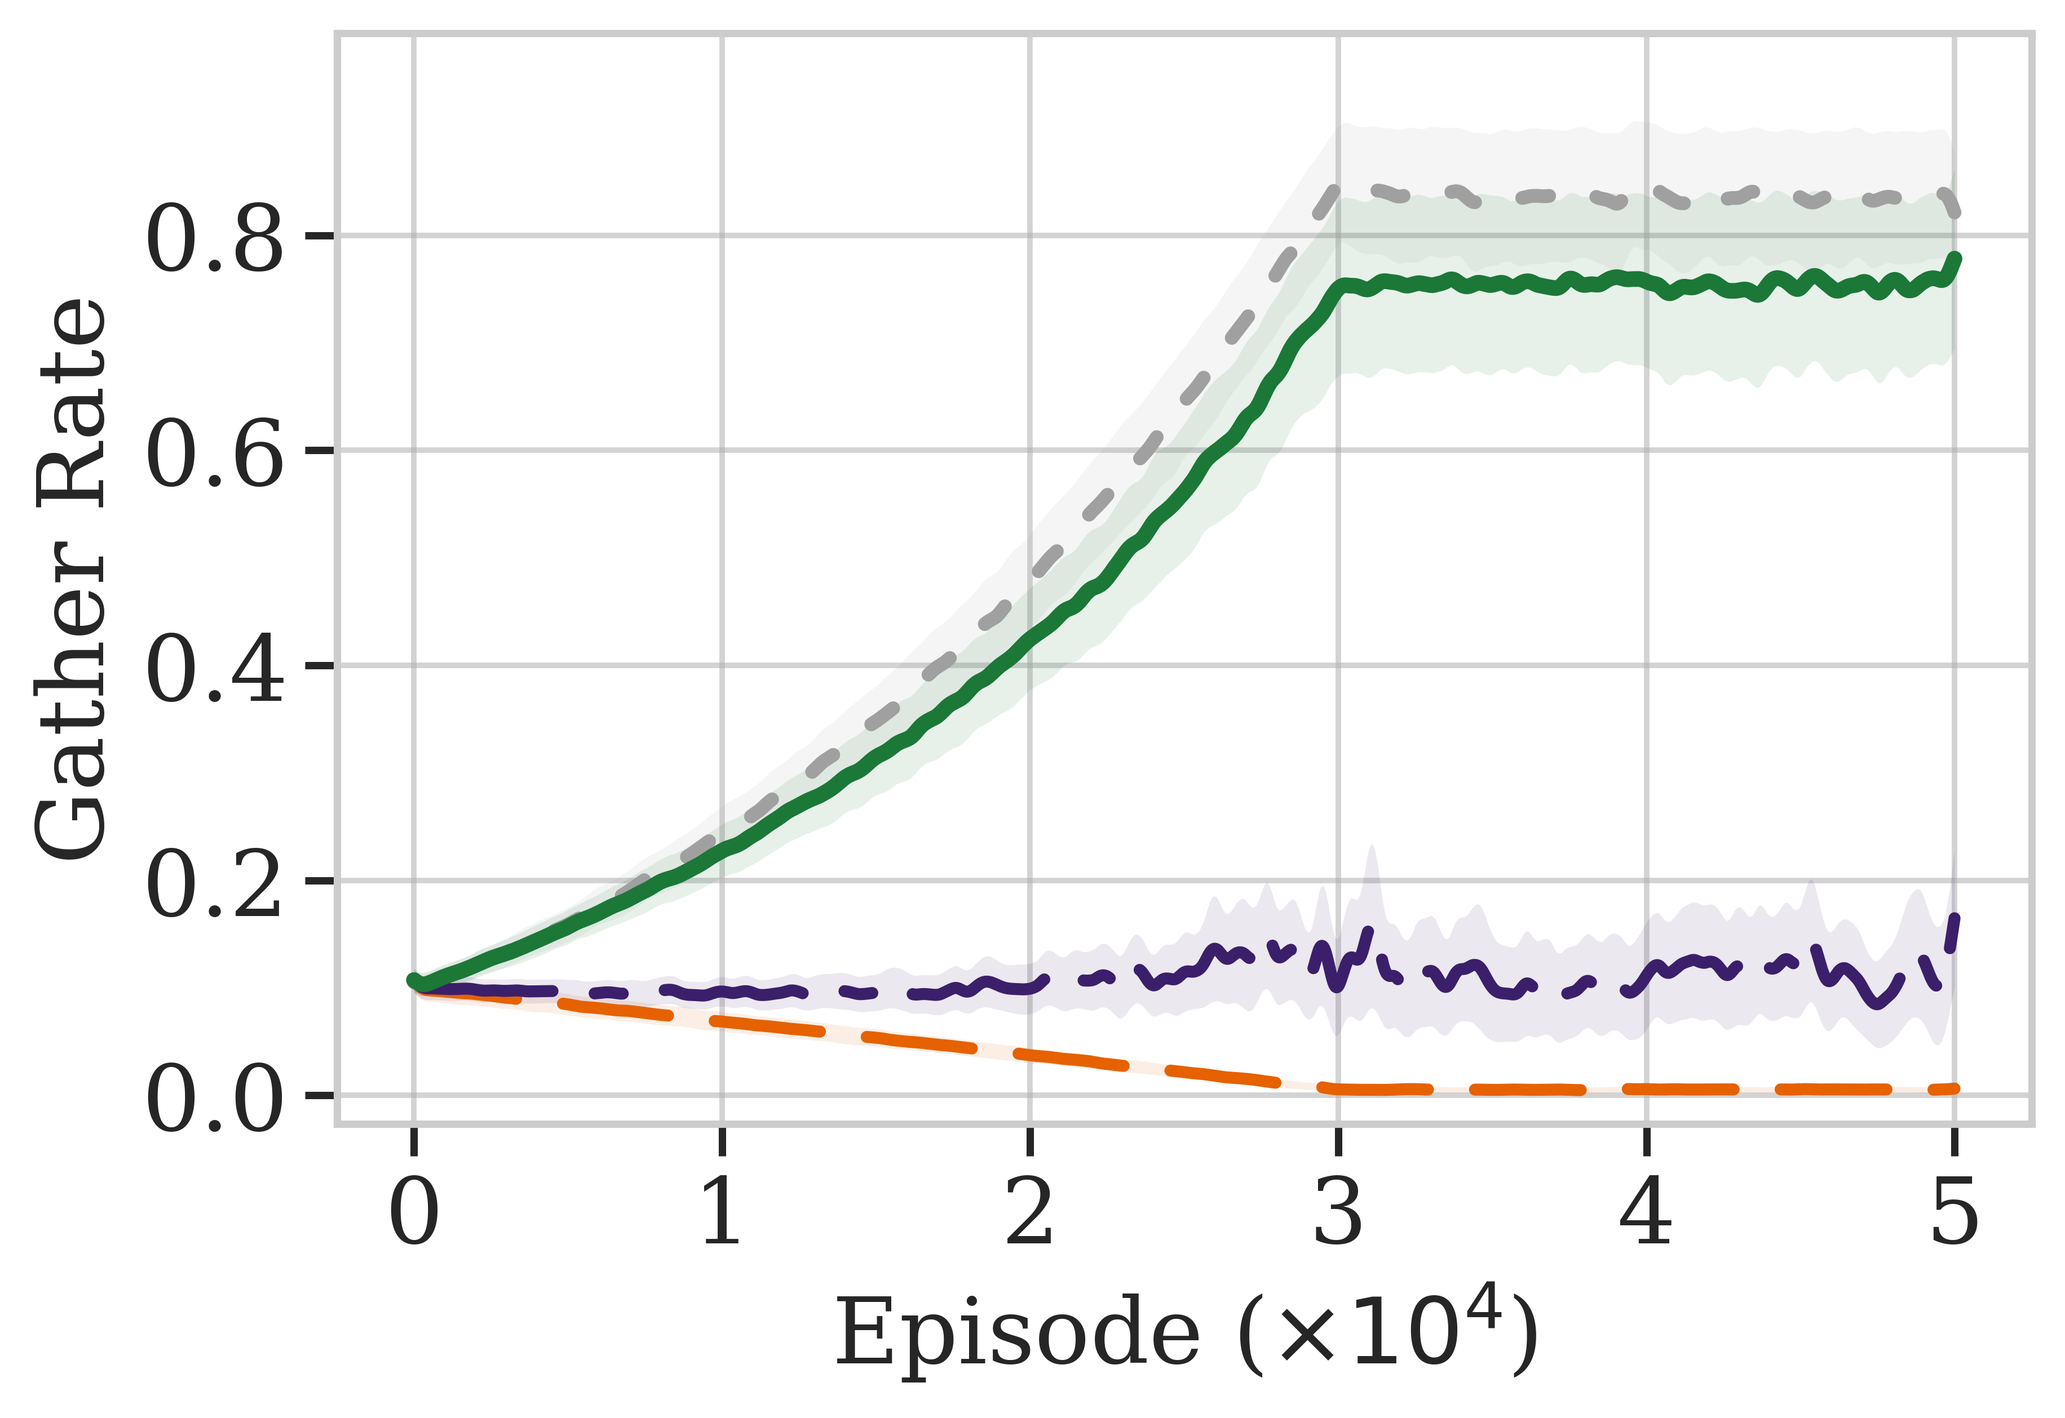
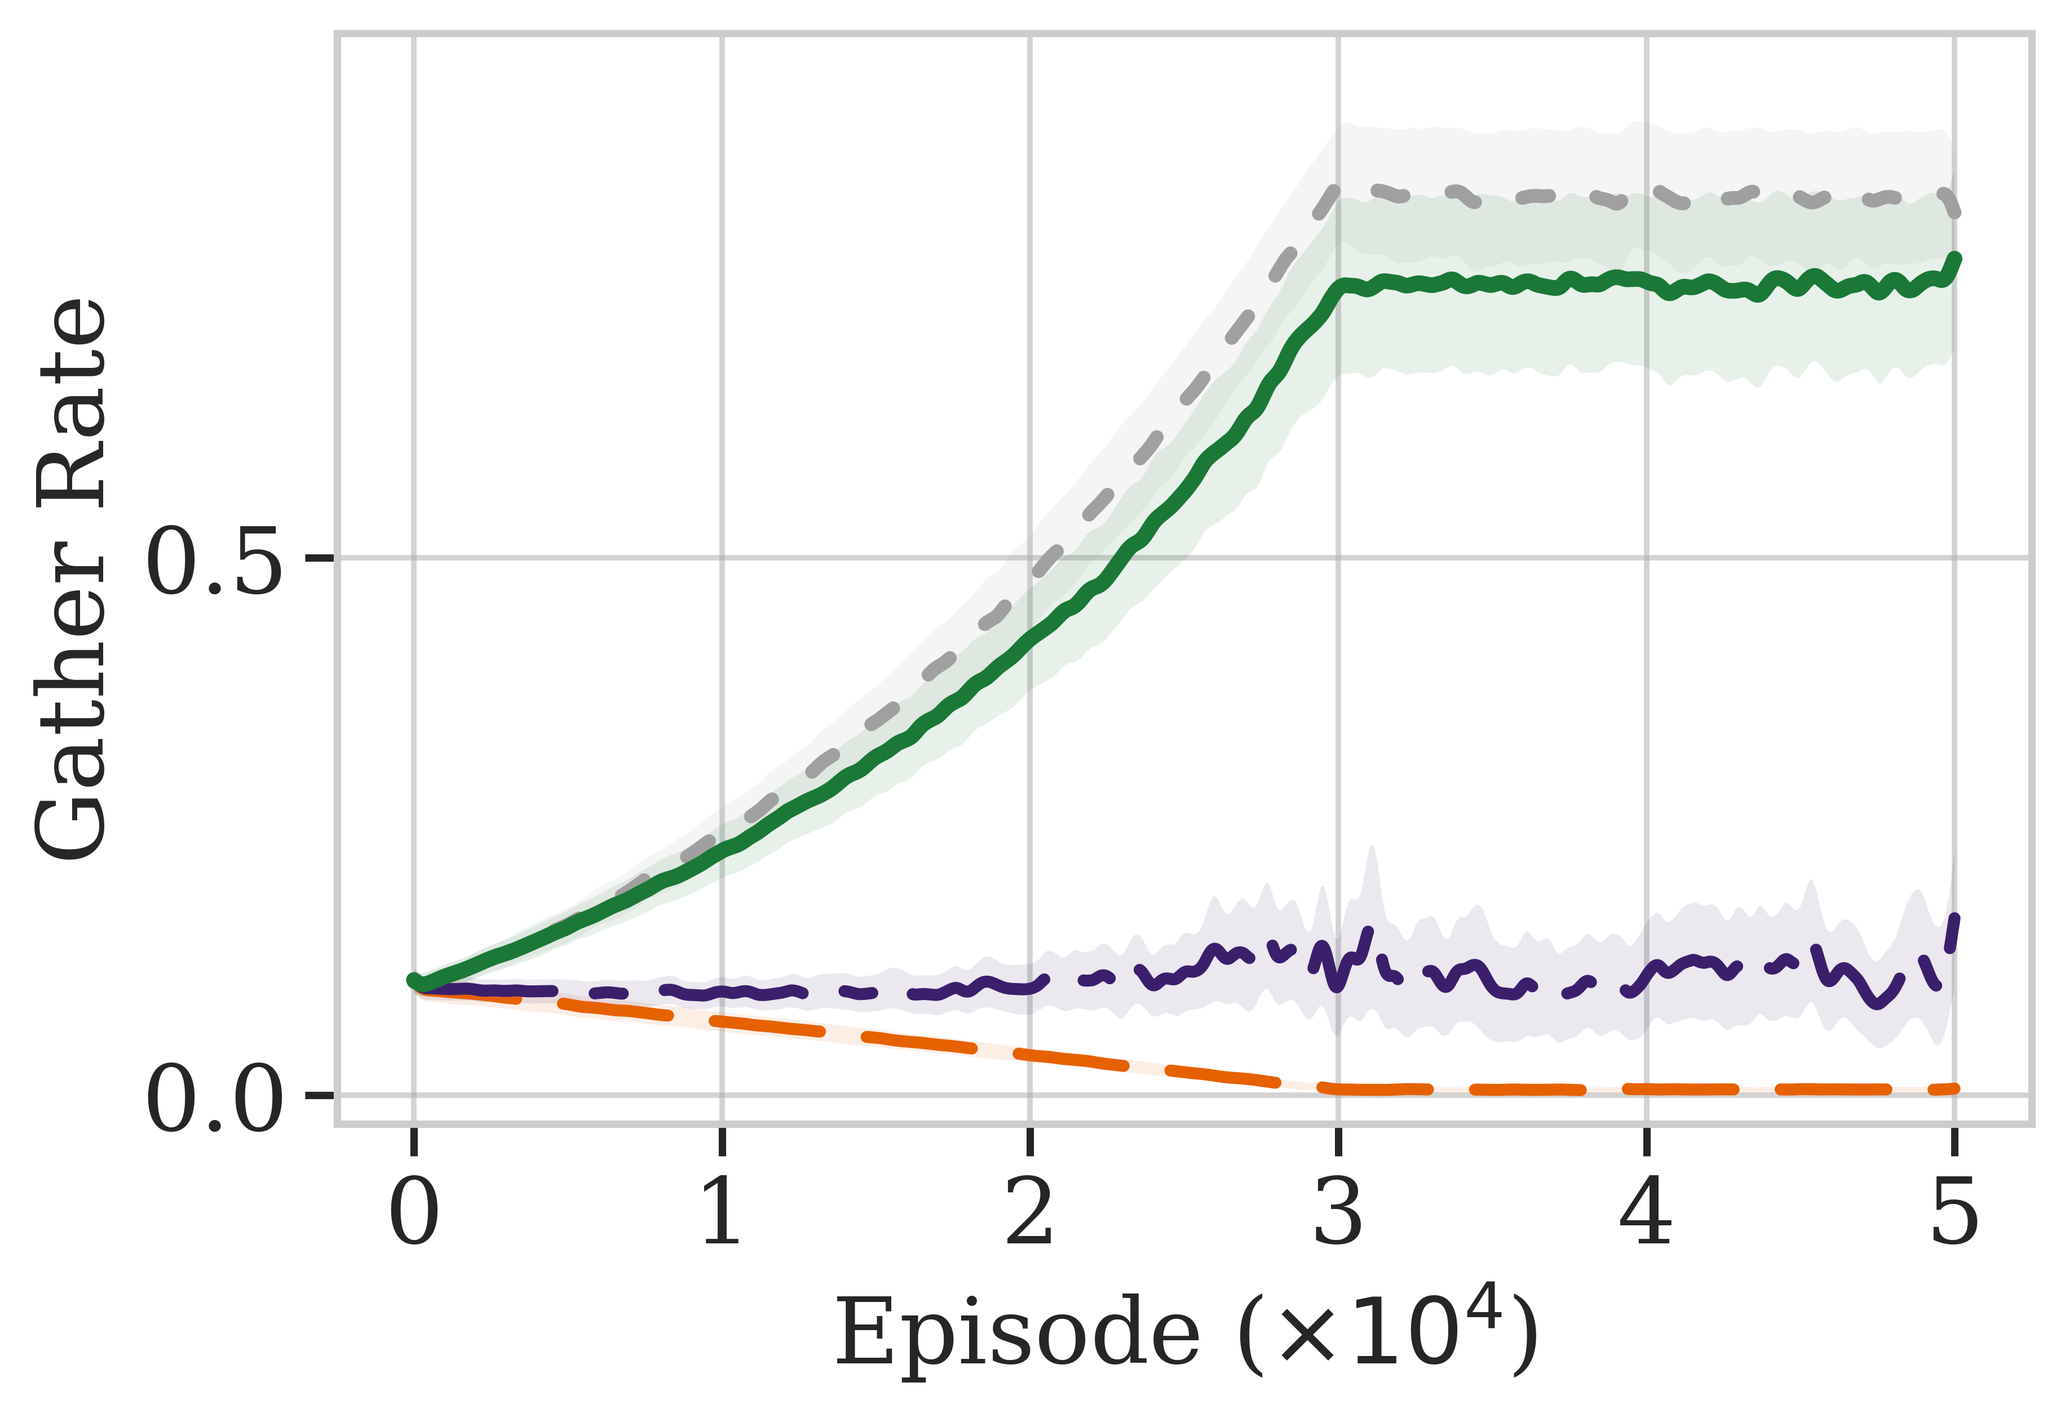
Rebuild figs 5, 6, 9, 10 for single-column placement
The paper puts these four in plain `figure` environments, not `figure*`, so
LaTeX was squeezing a 6.90in composite into a 3.28in column. At that 0.48x
scale the embedded 10pt type landed at 4.8pt, under the 7pt floor the editors
flagged. The other six figures were already built for \columnwidth and were
never affected.

Add --layout {wide,column}. In column mode these four are built natively at
3.3125in with their panels stacked one per row, so each panel spans the full
column and nothing is resampled on the way into the page:

  fig05_social       1x3 @ 6.90in  ->  3x1 @ 3.21x3.48in, shared x-axis
  fig06_coop_oracle  1x2 @ 6.90in  ->  2x1 @ 3.21x2.68in, shared x-axis
  fig09_ablation     20 vertical bars in 3.31in -> horizontal bars
  fig10_collusion    1x3 @ 6.90in  ->  3x1 @ 3.30x3.78in

All four now measure 9.9-10.4pt on the page. Supporting changes: stacked panels
carry a left-aligned title rather than a rotated y-label, which at 10pt is
longer than a 0.9in panel is tall; they take 4 y-ticks instead of 6, which
overlap at that height; fig10 pairs only its two curve panels with sharex,
since panel A is categorical and would otherwise be forced onto the episode
scale.

--layout wide reproduces the previous full-width set.

NOTE for the .tex: these are now taller than the height= caps on their
\includegraphics. Those caps must be dropped for figs 5, 6, 9 and 10, or height
binds instead of width and shrinks them below where they started.
[…]

diff --git a/plot_from_checkpoints.py b/plot_from_checkpoints.py
@@ -6,10 +6,12 @@ identical metric keys and identical checkpoint filenames. Only the directory
 differs:
 
     # Q-learning  -> plots/v3
-    python plot_from_checkpoints.py --checkpoint-dir checkpoints_qlearning --outdir plots/v3
+    python plot_from_checkpoints.py --checkpoint-dir checkpoints_qlearning \
+        --outdir plots/v3 --layout column
 
     # IPPO        -> plots/v4_final
-    python plot_from_checkpoints.py --checkpoint-dir checkpoints_ablation --outdir plots/v4_final
+    python plot_from_checkpoints.py --checkpoint-dir checkpoints_ablation \
+        --outdir plots/v4_final --layout column
 
 Typography
 ----------
@@ -31,12 +33,25 @@ shrinks a figure. Only the printed heights change (PANEL_PRINT_H and friends),
 because height is the axis along which overlapping curves separate, and the
 previous panels gave four curves just 1.4in of it.
 
-The four \textwidth figures (05, 06, 09, 10) go in as `figure*`, spanning both
-columns, and are drawn 1:1 — source width == print width, scale == 1. Nothing
-about them is resampled into the page, so properties matplotlib does not
-express in scaled units (hatch stroke width above all) come out at their
-intended size rather than at 47-78%% of it. Set ONE_TO_ONE_WIDE = False to go
-back to oversized sources.
+Figures 05, 06, 09 and 10 are composites, and --layout says which environment
+the paper puts them in:
+
+    --layout column   `figure`  -> 3.3125in, panels stacked one per row  (paper)
+    --layout wide     `figure*` -> 7.0in, panels side by side
+
+The paper uses plain `figure`, so `column` is what it needs. Building them wide
+and letting LaTeX squeeze 6.90in into a 3.28in column is a 0.48x scale that puts
+10pt type at 4.8pt, under the 7pt floor. Stacked, each panel gets the full
+column at 1:1.
+
+NOTE: the stacked figures are taller than the caps in the paper's
+\includegraphics. Any `height=...,keepaspectratio` on these four must be
+dropped, or height binds instead of width and shrinks them further than before.
+
+Either layout is drawn 1:1 — source width == print width, scale == 1 — so
+nothing is resampled into the page and properties matplotlib does not express
+in scaled units (hatch stroke width above all) come out at their intended size.
+Set ONE_TO_ONE_WIDE = False to go back to oversized sources.
 """
 
 import os, argparse
@@ -97,6 +112,17 @@ PANEL_PRINT_H  = 2.35   # figs 1-4, 7, 8: one column-wide panel
 STRIP3_PRINT_H = 3.30   # figs 5, 10: full-width 3-panel strip
 STRIP2_PRINT_H = 3.60   # fig 6: full-width 2-panel
 BARS_PRINT_H   = 3.20   # fig 9: full-width bar chart
+
+# --layout column: figs 5, 6, 9, 10 rebuilt to sit in ONE \columnwidth. The
+# paper puts them in `figure` (not `figure*`) environments, so a 1x3 strip is
+# squeezed from 6.90in into 3.28in and its 10pt type lands at 4.8pt. Stacking
+# the panels instead gives each one the full column width at 1:1.
+COL_STRIP3_H = 3.60     # fig 5: 3 curve panels stacked, one shared x-axis
+COL_FIG10_H  = 3.90     # fig 10: bar panel + 2 curve panels, two x-axes
+COL_STRIP2_H = 2.80     # fig 6: 2 panels stacked
+COL_BARS_H   = 2.60     # fig 9: horizontal bars
+
+LAYOUT = "wide"         # "wide" (figure*, 7.0in) | "column" (figure, 3.3125in)
 
 FILL_ALPHA = 0.10  # +/-1 sigma band; 0.15 turned overlapping bands into fog
 
@@ -169,6 +195,60 @@ def st(c):
 def src_h(source_w, print_w, print_h):
     """Source-figure height that lands at `print_h` inches once scaled to `print_w`."""
     return print_h * (source_w / float(print_w))
+
+
+def stacked():
+    """True when the \\textwidth composites are being rebuilt for one column."""
+    return LAYOUT == "column"
+
+
+def composite(name, nax, print_w, wide_h, col_h, width_ratios=None, sharex=True):
+    """
+    Build one of the four composites that the paper typesets as a unit.
+
+    wide   -> 1 x nax across \\textwidth
+    column -> nax x 1 stacked inside \\columnwidth
+
+    Stacked panels share an x-axis so only the bottom one pays for tick labels
+    — but only when every panel IS the same axis. Pass sharex=False when one of
+    them is categorical (fig10's bar panel), or its four category positions get
+    forced onto the 0..50000 episode scale.
+
+    Both layouts are drawn 1:1, so nothing is resampled into the page.
+    Returns (fig, axes).
+    """
+    pw = COLUMN_WIDTH if stacked() else print_w
+    sty(pw, pw)
+    _record(name, pw, pw)
+    if stacked():
+        fig, axes = plt.subplots(nax, 1, figsize=(pw, col_h), sharex=sharex)
+    else:
+        fig, axes = plt.subplots(1, nax, figsize=(pw, wide_h),
+                                 gridspec_kw=(dict(width_ratios=width_ratios)
+                                              if width_ratios else None))
+    return fig, np.atleast_1d(axes)
+
+
+def panel_label(ax, text):
+    """
+    Name a panel's metric. Stacked panels are ~0.9in tall and a rotated
+    "Verification Rate" is 1.05in long at 10pt, so it would overrun the axes;
+    a left-aligned title above the panel costs less height than it wastes.
+    """
+    if stacked():
+        ax.set_title(text, loc="left", pad=2.0)
+    else:
+        ax.set_ylabel(text)
+
+
+def episode_axis_for(axes, n_ep, shared=True):
+    """
+    x-axis furniture. Side by side every panel gets it. Stacked, only the last
+    one does — unless the panels are not actually sharing an axis, in which case
+    each still needs its own labels.
+    """
+    for a in (axes[-1:] if (stacked() and shared) else axes):
+        _episode_axis(a, n_ep)
 
 
 def _record(name, source_w, print_w):
@@ -249,8 +329,11 @@ def _fit_y(ax):
     ax.autoscale_view()
     # fitting the range can leave only two ticks; keep enough to read values off
     # (6 rather than 5 — the taller panels have room for the extra gridline, and
-    # a denser ruler is what lets a reader resolve two curves that run close)
-    ax.yaxis.set_major_locator(MaxNLocator(nbins=6, steps=[1, 2, 2.5, 5, 10]))
+    # a denser ruler is what lets a reader resolve two curves that run close).
+    # Stacked panels are a third of that height and 6 labels overlap into an
+    # unreadable stack, so they get 4.
+    ax.yaxis.set_major_locator(
+        MaxNLocator(nbins=4 if stacked() else 6, steps=[1, 2, 2.5, 5, 10]))
     lo, hi = ax.get_ylim()
     if lo < 0:
         # these metrics are all non-negative: keep a sliver below zero so a
@@ -371,11 +454,9 @@ def _draw_all(R, print_w, panel_w):
     _curve(R, "mine",   "Mine Rate",   "fig04_moral_drift",   panel_w, n_ep)
     n_saved += 4
 
-    # ── Fig 5: emergent social dynamics, full-width 3-panel strip ─────────
-    source_w = print_w if ONE_TO_ONE_WIDE else 15.0
-    sty(source_w, print_w); _record("fig05_social", source_w, print_w)
-    fig, axes = plt.subplots(1, 3,
-                             figsize=(source_w, src_h(source_w, print_w, STRIP3_PRINT_H)))
+    # ── Fig 5: emergent social dynamics, 3 panels ─────────────────────────
+    fig, axes = composite("fig05_social", 3, print_w,
+                          STRIP3_PRINT_H, COL_STRIP3_H)
     for c in ["DPF", "DERL"]:
         if c not in R:
             continue
@@ -384,29 +465,28 @@ def _draw_all(R, print_w, panel_w):
         plot_with_fill(axes[2], R[c]["mean_rep"], label=LB[c], color=CL[c], **st(c))
     for a, yl in zip(axes, ["Punishment Rate", "Verification Rate",
                             "Mean Reputation"]):
-        a.set_ylabel(yl)
-        _episode_axis(a, n_ep)
+        panel_label(a, yl)
         _fit_y(a)
         _legend(a, ncol=2)
+    episode_axis_for(axes, n_ep)
     fig.tight_layout()
     _save(fig, "fig05_social")
     n_saved += 1
 
-    # ── Fig 6: cooperation + oracle accuracy, full-width 2-panel ──────────
-    source_w = print_w if ONE_TO_ONE_WIDE else 11.0
-    sty(source_w, print_w); _record("fig06_coop_oracle", source_w, print_w)
-    fig, (a1, a2) = plt.subplots(1, 2,
-                                 figsize=(source_w, src_h(source_w, print_w, STRIP2_PRINT_H)))
+    # ── Fig 6: cooperation + oracle accuracy, 2 panels ────────────────────
+    fig, axes = composite("fig06_coop_oracle", 2, print_w,
+                          STRIP2_PRINT_H, COL_STRIP2_H)
+    a1, a2 = axes
     for c in MC:
         if c not in R:
             continue
         plot_with_fill(a1, R[c]["coop"],       label=LB[c], color=CL[c], **st(c))
         plot_with_fill(a2, R[c]["oracle_acc"], label=LB[c], color=CL[c], **st(c))
-    for a, yl in zip((a1, a2), ["Cooperation Rate", "Oracle Accuracy"]):
-        a.set_ylabel(yl)
-        _episode_axis(a, n_ep)
+    for a, yl in zip(axes, ["Cooperation Rate", "Oracle Accuracy"]):
+        panel_label(a, yl)
         _fit_y(a)
         _legend(a, ncol=2)
+    episode_axis_for(axes, n_ep)
     fig.tight_layout()
     _save(fig, "fig06_coop_oracle")
     n_saved += 1
@@ -442,22 +522,34 @@ def _draw_all(R, print_w, panel_w):
         mets = ["truth", "gather", "lie", "mine", "punish"]
         mls  = [r"Truth $\uparrow$", r"Gather $\uparrow$",
                 r"Lie $\downarrow$", r"Mine $\downarrow$", "Punish"]
-        source_w = print_w if ONE_TO_ONE_WIDE else 9.0
-        sty(source_w, print_w); _record("fig09_ablation_punish", source_w, print_w)
-        fig, ax = plt.subplots(figsize=(source_w, src_h(source_w, print_w, BARS_PRINT_H)))
+        pw = COLUMN_WIDTH if stacked() else print_w
+        sty(pw, pw); _record("fig09_ablation_punish", pw, pw)
+        fig, ax = plt.subplots(figsize=(pw, COL_BARS_H if stacked()
+                                        else BARS_PRINT_H))
         x  = np.arange(len(mets))
         bw = 0.18
         cm = plt.cm.viridis
         n_last = max(1, abl[keys[0]]["truth"].shape[1] // 5)
         for i, k in enumerate(keys):
             vals = [np.mean(abl[k][m][:, -n_last:]) for m in mets]
-            ax.bar(x + (i - len(keys) / 2 + 0.5) * bw, vals, bw,
-                   label=f"pun_rew={k}",
-                   color=cm(i / max(len(keys) - 1, 1)),
-                   hatch=HATCH[i % len(HATCH)],
-                   edgecolor="white", linewidth=0.6 * _K)
-        ax.set_xticks(x); ax.set_xticklabels(mls)
-        ax.set(ylabel=f"Rate (last {n_last} ep)")
+            off  = (i - len(keys) / 2 + 0.5) * bw
+            args = dict(label=f"pun_rew={k}",
+                        color=cm(i / max(len(keys) - 1, 1)),
+                        hatch=HATCH[i % len(HATCH)],
+                        edgecolor="white", linewidth=0.6 * _K)
+            if stacked():
+                # 20 vertical bars inside 3.31in leaves each 0.11in wide and the
+                # five category labels overlapping; horizontally the column's
+                # scarce axis is the one the labels do not compete for
+                ax.barh(x[::-1] - off, vals, bw, **args)
+            else:
+                ax.bar(x + off, vals, bw, **args)
+        if stacked():
+            ax.set_yticks(x[::-1]); ax.set_yticklabels(mls)
+            ax.set(xlabel=f"Rate (last {n_last} ep)")
+        else:
+            ax.set_xticks(x); ax.set_xticklabels(mls)
+            ax.set(ylabel=f"Rate (last {n_last} ep)")
         _legend(ax, ncol=4)
         fig.tight_layout()
         _save(fig, "fig09_ablation_punish")
@@ -468,13 +560,12 @@ def _draw_all(R, print_w, panel_w):
 
     # ── Fig 10: adversarial coalition robustness ──────────────────────────
     if "DPF" in R and "AC" in R:
-        source_w = print_w if ONE_TO_ONE_WIDE else 14.0
-        sty(source_w, print_w); _record("fig10_collusion", source_w, print_w)
-        # Panel A carries four category labels, so it needs more width than the
-        # two curve panels or "Gather"/"Mine" collide at print size.
-        fig, axes = plt.subplots(1, 3,
-                                 figsize=(source_w, src_h(source_w, print_w, STRIP3_PRINT_H)),
-                                 gridspec_kw=dict(width_ratios=[1.35, 1, 1]))
+        # Side by side, panel A carries four category labels and needs more
+        # width than the two curve panels or "Gather"/"Mine" collide. Stacked,
+        # every panel already spans the column, so the ratios do not apply.
+        fig, axes = composite("fig10_collusion", 3, print_w,
+                              STRIP3_PRINT_H, COL_FIG10_H,
+                              width_ratios=[1.35, 1, 1], sharex=False)
         n_last = max(1, R["DPF"]["truth"].shape[1] // 5)
         s = slice(-n_last, None)
         ed, cd = R["DPF"], R["AC"]
@@ -488,17 +579,24 @@ def _draw_all(R, print_w, panel_w):
         axes[0].bar(xp + 0.17, cv, 0.32, label="AC", color=CL["AC"],
                     hatch="///", edgecolor="white", linewidth=0.6 * _K)
         axes[0].set_xticks(xp); axes[0].set_xticklabels(ls)
-        axes[0].set(ylabel="Rate"); _legend(axes[0], ncol=2)
+        panel_label(axes[0], "Rate"); _legend(axes[0], ncol=2)
         plot_with_fill(axes[1], ed["coop"], "DPF", CL["DPF"], **st("DPF"))
         plot_with_fill(axes[1], cd["coop"], "AC",  CL["AC"],  **st("AC"))
-        axes[1].set_ylabel("Cooperation Rate")
-        _episode_axis(axes[1], n_ep); _fit_y(axes[1])
-        _legend(axes[1], ncol=2)
+        panel_label(axes[1], "Cooperation Rate")
+        _fit_y(axes[1]); _legend(axes[1], ncol=2)
         plot_with_fill(axes[2], ed["oracle_acc"], "DPF", CL["DPF"], **st("DPF"))
         plot_with_fill(axes[2], cd["oracle_acc"], "AC",  CL["AC"],  **st("AC"))
-        axes[2].set_ylabel("Oracle Accuracy")
-        _episode_axis(axes[2], n_ep); _fit_y(axes[2])
-        _legend(axes[2], ncol=2)
+        panel_label(axes[2], "Oracle Accuracy")
+        _fit_y(axes[2]); _legend(axes[2], ncol=2)
+        # Panel A is categorical, so the figure cannot share x globally. The two
+        # curve panels are both episode axes though, so pair them by hand: one
+        # set of tick labels and one "Episode" label instead of two.
+        if stacked():
+            axes[1].sharex(axes[2])
+            axes[1].tick_params(labelbottom=False)
+            episode_axis_for(axes[2:], n_ep, shared=False)
+        else:
+            episode_axis_for(axes[1:], n_ep, shared=False)
         fig.tight_layout()
         _save(fig, "fig10_collusion")
         n_saved += 1
@@ -587,11 +685,17 @@ if __name__ == "__main__":
     parser.add_argument("--inline-legends", action="store_true",
                         help="keep a legend on every panel instead of emitting "
                              "standalone legend_*.pdf strips")
+    parser.add_argument("--layout", choices=["wide", "column"], default="wide",
+                        help="geometry for figs 5, 6, 9, 10: 'wide' for a "
+                             "figure* spanning \\textwidth, 'column' to rebuild "
+                             "them stacked inside one \\columnwidth (what a "
+                             "plain `figure` environment gives them)")
     parser.add_argument("--audit", action="store_true",
                         help="report effective printed point sizes")
     args = parser.parse_args()
 
     PANEL_LEGENDS = args.inline_legends
+    LAYOUT = args.layout
 
     print(f"Loading checkpoints from {args.checkpoint_dir} ...")
     R = load_checkpoints(args.checkpoint_dir, args.seeds)
